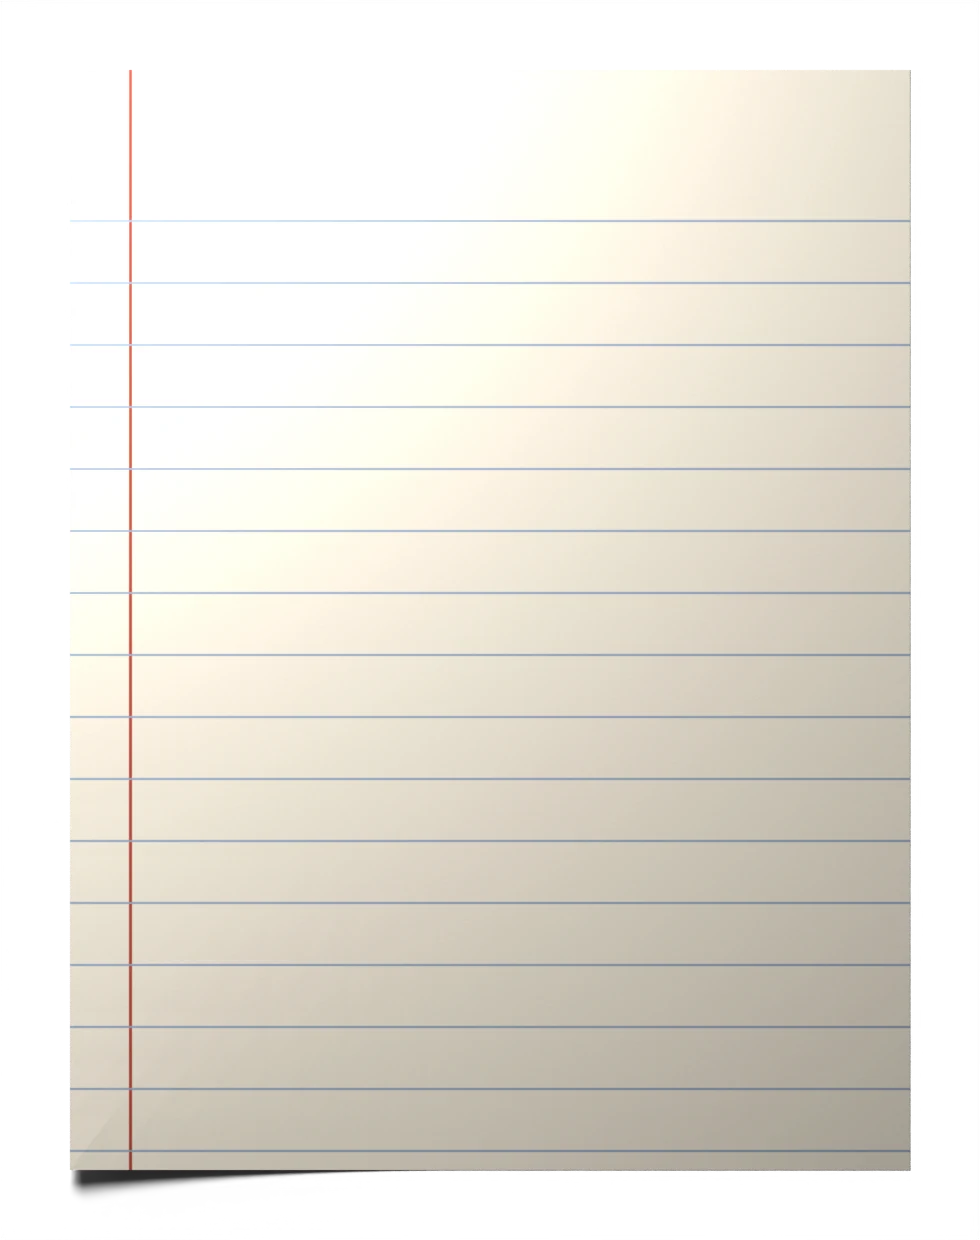
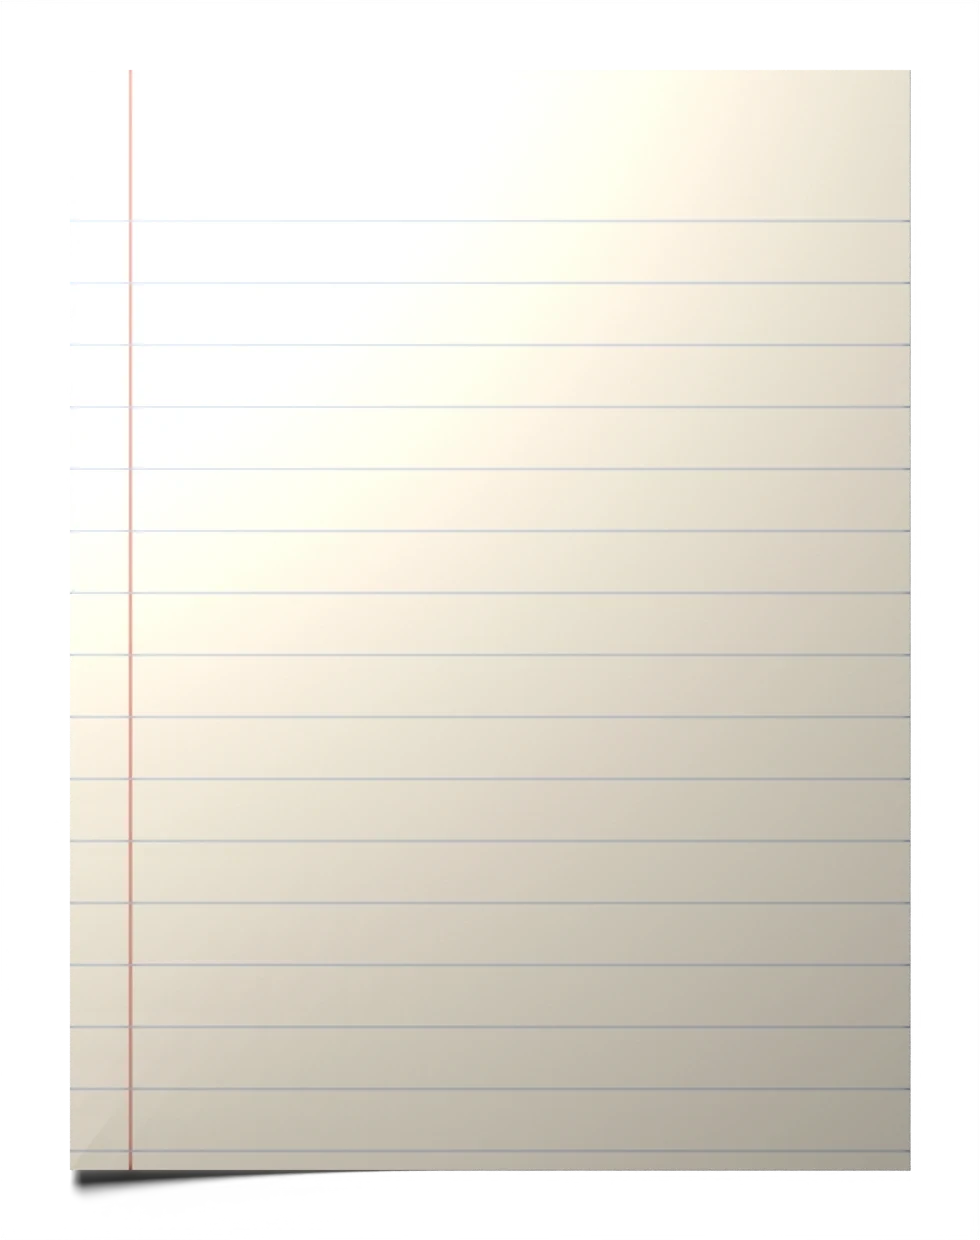
v55d: linhas das folhas e fichas mais claras
Claude-Session: https://claude.ai/code/session_017vGA3qWotM1g86ZzBazqHt

diff --git a/fotos/index.html b/fotos/index.html
@@ -2458,8 +2458,8 @@
     if (op.yTop != null) yBase = op.yTop + h;
     const y = yBase - h;
     papelSombra(x, y, w, h, -1.2 + r('f') * 2.4, '#F4EEE0', () => {
-      ctx.fillStyle = 'rgba(196,80,70,.55)'; ctx.fillRect(0, topo - 18, w, 2.5);
-      ctx.fillStyle = 'rgba(150,175,205,.22)'; for (let yy = topo - 18 + L.lh; yy < h - 8; yy += L.lh) ctx.fillRect(0, yy + Math.round(L.lh * .08), w, 1.5);
+      ctx.fillStyle = 'rgba(196,80,70,.32)'; ctx.fillRect(0, topo - 18, w, 2);
+      ctx.fillStyle = 'rgba(150,175,205,.12)'; for (let yy = topo - 18 + L.lh; yy < h - 8; yy += L.lh) ctx.fillRect(0, yy + Math.round(L.lh * .08), w, 1.5);
       ctx.font = fontStr(TYP, 19, 700); spaced(4); ctx.fillStyle = '#7A6040'; ctx.textBaseline = 'alphabetic';
       ctx.fillText(('CASO ' + casoTxt(c) + (chap ? ' · ' + chap : '')).toUpperCase().slice(0, 46), 40, 40); spaced(0);
       gDesenha(L, o, 56, topo, 'left');
@@ -3087,7 +3087,7 @@
       const papel = (x, y, w, h, rot, cor, fn) => papelSombra(x, y, w, h, rot, cor, fn);
       if (modelo === 'texto') { // bloco amarelo pautado
         papel(90, 300, 900, 1260, -1.5, '#FAE282', () => { ctx.fillStyle = '#3C221A'; ctx.fillRect(0, 0, 900, 70); for (let x = 20; x < 900; x += 40) { ctx.fillStyle = '#1E120C'; ctx.beginPath(); ctx.arc(x + 6, 64, 6, 0, Math.PI * 2); ctx.fill(); }
-          ctx.fillStyle = 'rgba(120,150,190,.45)'; for (let y = 190; y < 1230; y += 58) ctx.fillRect(0, y, 900, 3); ctx.fillStyle = 'rgba(205,90,80,.6)'; ctx.fillRect(110, 70, 2, 1190); ctx.fillRect(120, 70, 2, 1190); });
+          ctx.fillStyle = 'rgba(120,150,190,.24)'; for (let y = 190; y < 1230; y += 58) ctx.fillRect(0, y, 900, 3); ctx.fillStyle = 'rgba(205,90,80,.6)'; ctx.fillRect(110, 70, 2, 1190); ctx.fillRect(120, 70, 2, 1190); });
         lupaSobre(900, 1600, .6, 1.5);
       } else if (modelo === 'perguntas') { // ficha de interrogatório
         papel(70, 380, 940, 1180, 1.2, '#F4EEE0', () => { ctx.fillStyle = 'rgba(196,80,70,.6)'; ctx.fillRect(0, 150, 940, 3); ctx.fillStyle = 'rgba(150,175,205,.22)'; for (let y = 214; y < 1180; y += 64) ctx.fillRect(0, y, 940, 2);
